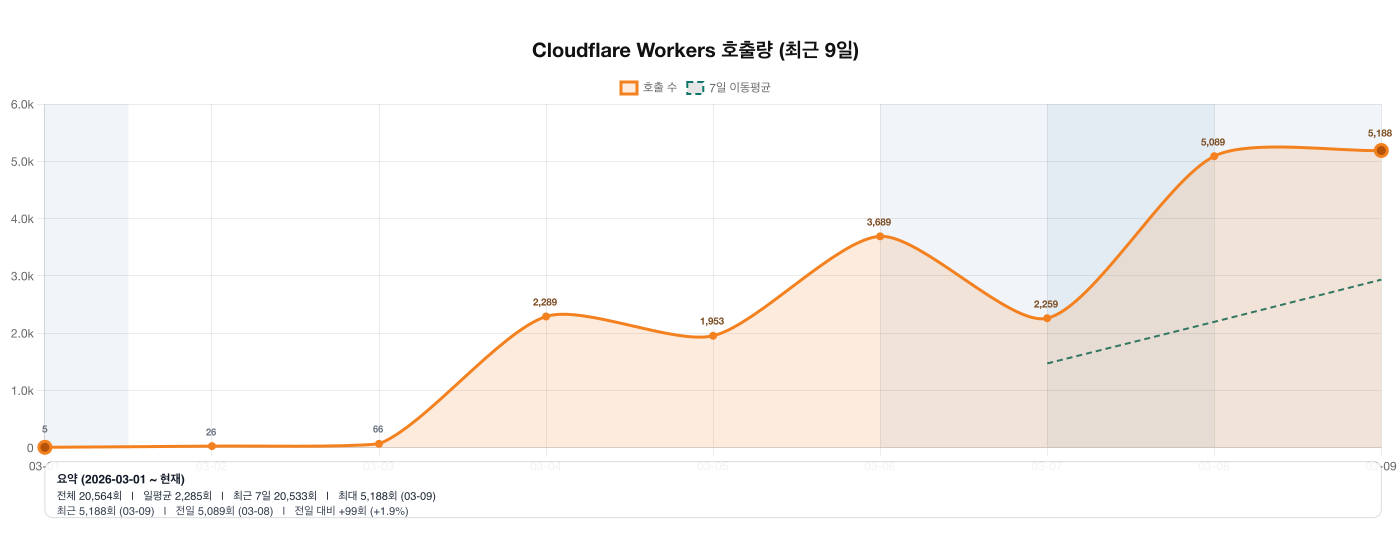
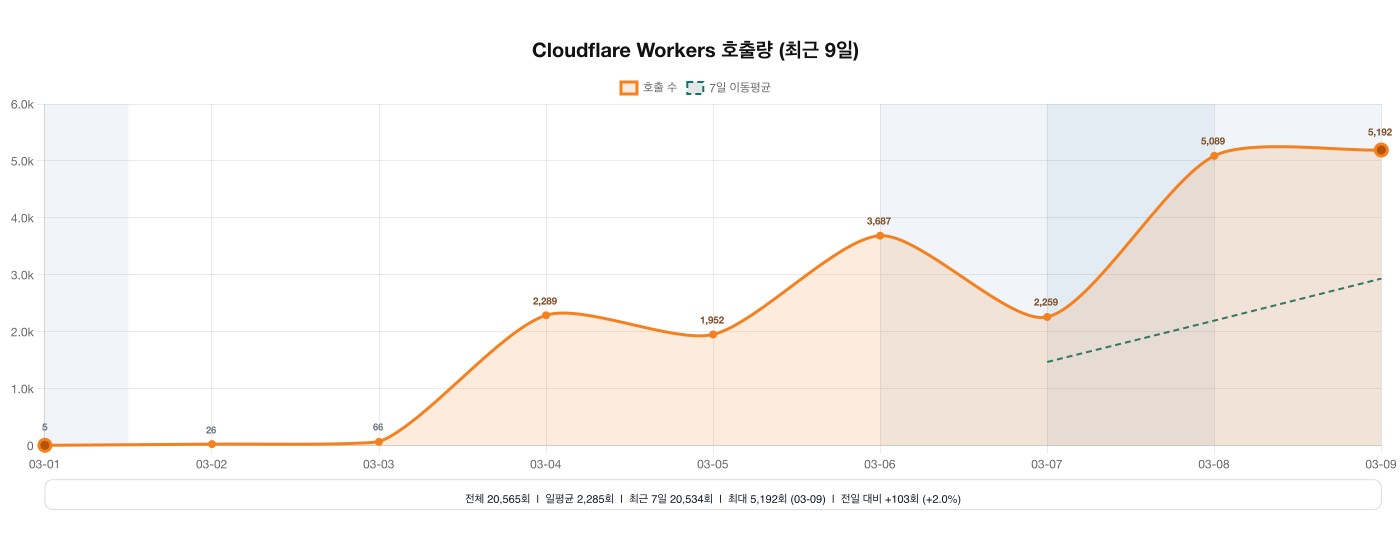
fix: 워커 차트 하단 날짜 가림 문제 조정

diff --git a/README.md b/README.md
@@ -29,11 +29,11 @@
 
 ### Cloudflare Workers 호출량 (2026-03-01 ~ 현재, 9일)
 
-<img src="./assets/analytics/workers-invocations.png?v=2026-03-09T13:14:46.861Z" alt="Cloudflare Workers 호출량 그래프 (2026-03-01 ~ 현재)" width="100%">
+<img src="./assets/analytics/workers-invocations.png?v=2026-03-09T13:17:11.921Z" alt="Cloudflare Workers 호출량 그래프 (2026-03-01 ~ 현재)" width="100%">
 
 <sub>요약 지표는 차트 우측 상단 패널에 표시됩니다.</sub>
 <br>
-<sub>기준 워커: <code>daiso-mcp</code> · 마지막 갱신: 2026-03-09 22:14 KST</sub>
+<sub>기준 워커: <code>daiso-mcp</code> · 마지막 갱신: 2026-03-09 22:17 KST</sub>
 
 <!-- WORKERS_INVOCATIONS_CHART:END -->
 
